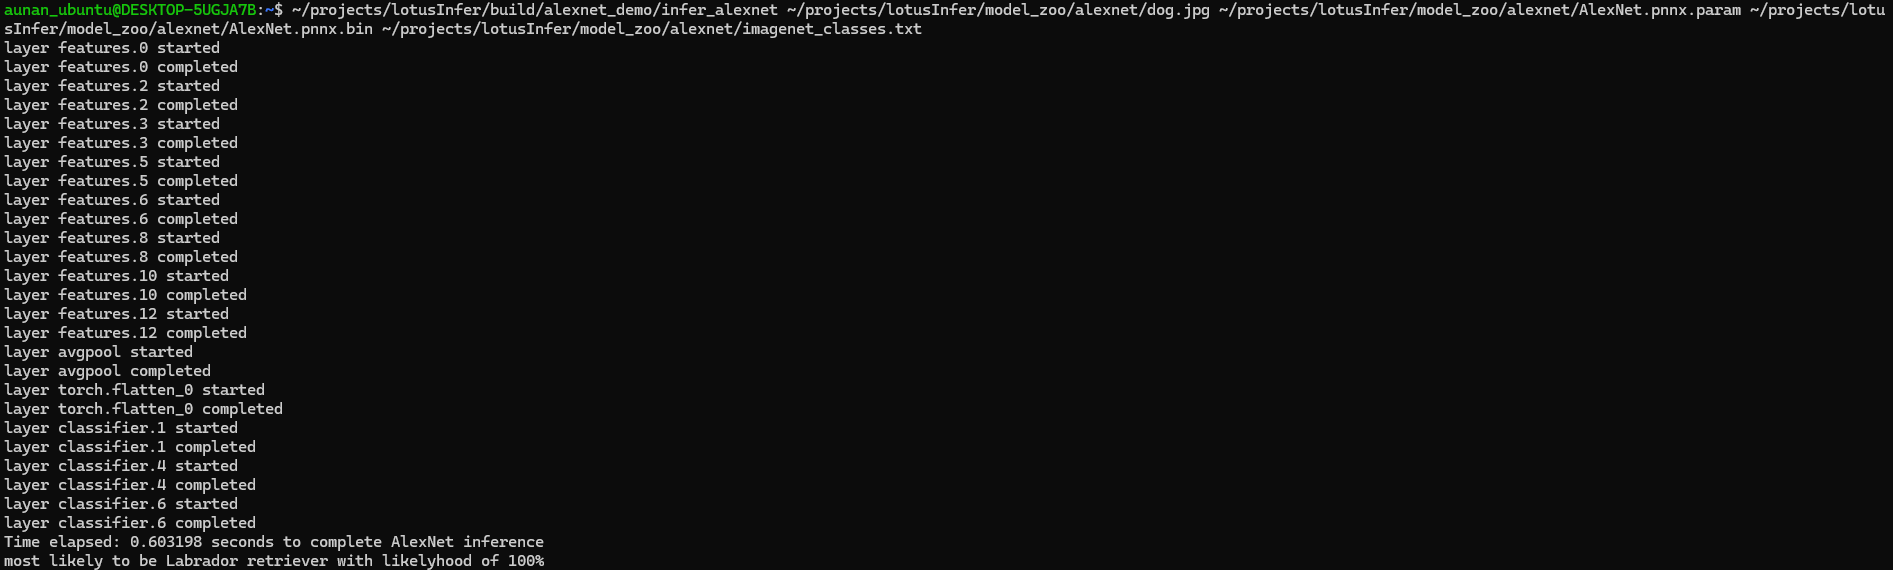
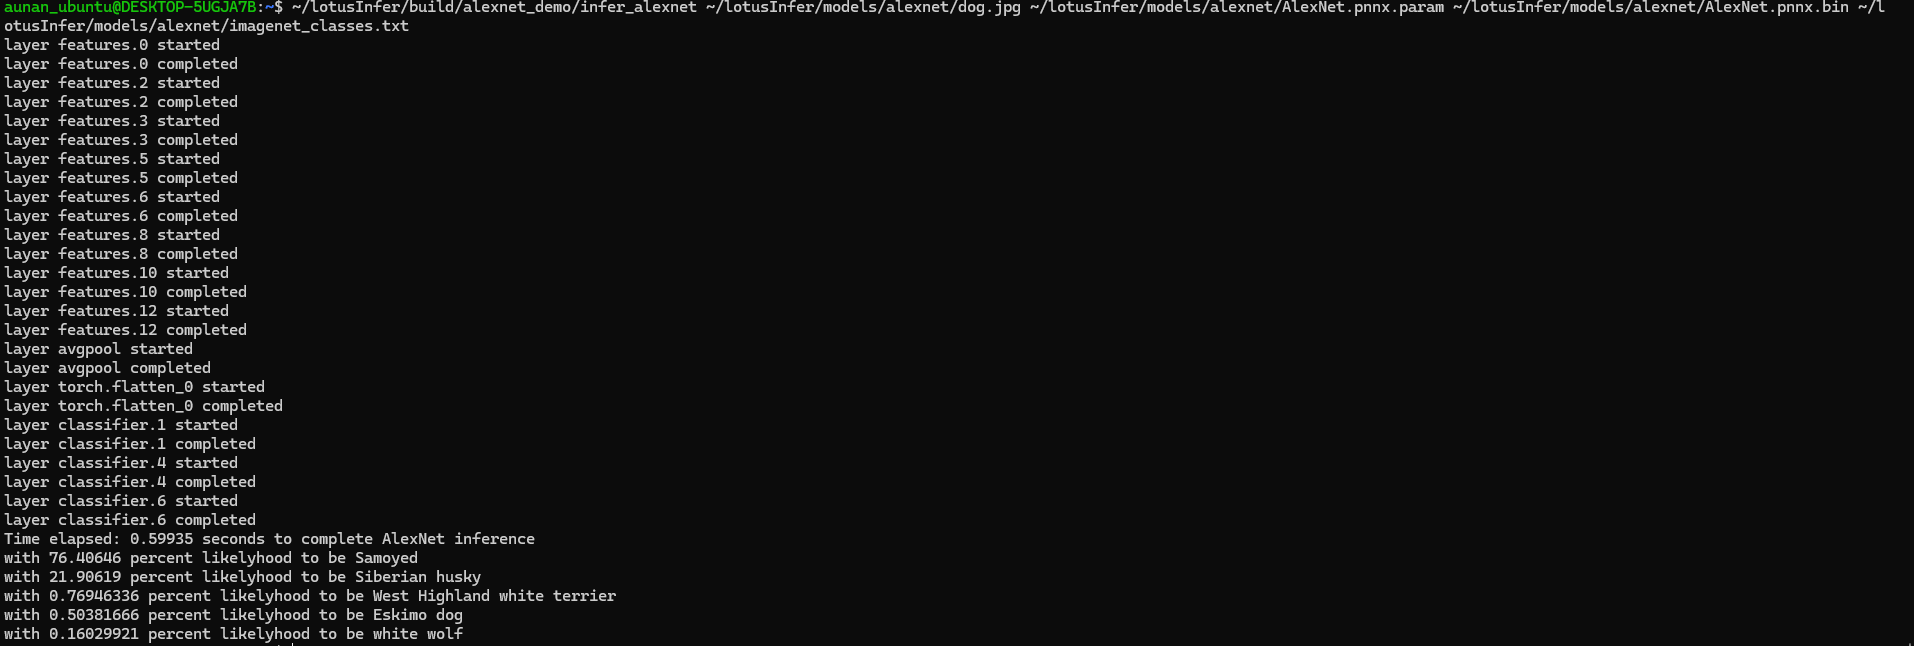
fix the missing of activation function

Changed region(s): [[0.0, 0.0, 0.9974, 1.0], [0.9974, 0.9842, 1.0, 1.0]]

diff --git a/alexnet_demo/infer_alexnet.cpp b/alexnet_demo/infer_alexnet.cpp
@@ -39,9 +39,9 @@ void PreprocessImage(cv::Mat &image, std::vector<float> &result) {
     cv::Mat channels[3];
     cv::split(image_crop, channels); 
 
-    channels[0] = (channels[0] - mean[0]) / stddev[0]; 
-    channels[1] = (channels[1] - mean[1]) / stddev[1]; 
-    channels[2] = (channels[2] - mean[2]) / stddev[2]; 
+    channels[0] = (channels[0]/255.f - mean[0]) / stddev[0]; 
+    channels[1] = (channels[1]/255.f - mean[1]) / stddev[1]; 
+    channels[2] = (channels[2]/255.f - mean[2]) / stddev[2]; 
 
     memcpy(&result[0], channels[0].data, sizeof(float)*(224*224));
     memcpy(&result[224*224], channels[1].data, sizeof(float)*(224*224));
@@ -102,8 +102,12 @@ int main(int argc, char* argv[]) {
 
     input_file.close();
 
-    auto index = xt::argmax(probabilities)();
-    std::cout << fmt::format("most likely to be {} with likelyhood of {}%\n", classes[index], probabilities(index)*100);
+    for(int i=0; i<5; ++i) {
+        auto index = xt::argmax(probabilities)();
+        std::cout << fmt::format("with {} percent likelyhood to be {}\n", probabilities(index)*100, classes[index]);
+        probabilities(index) = 0;
+    }
+    
 
     return 0;
 }

diff --git a/source/graph.cpp b/source/graph.cpp
@@ -47,11 +47,9 @@ namespace lotus {
 
         pnnx::Graph pnnx_graph;
 
-        // std::cout << "pnnx is to load the model" << std::endl;
-
         CHECK(pnnx_graph.load(param_path, bin_path) == 0) << "graph fails to load the model and coefficients";
 
-        // std::cout << "pnnx loaded the model" << std::endl;
+        std::vector<std::string> layer_need_relu_activation;
 
         for(pnnx::Operand *opd: pnnx_graph.operands) {
 
@@ -82,6 +80,7 @@ namespace lotus {
                     for(pnnx::Operator* _consumer : consumer->outputs[0]->consumers) {
                         operand->consumers_.emplace_back(_consumer->name);
                     }
+                    layer_need_relu_activation.emplace_back(opd->producer->name);
                 }
             }
 
@@ -115,6 +114,10 @@ namespace lotus {
             } else {
                 CHECK(false) << fmt::format("lotusInfer does not support layer {} up to now", opt->type);
             }
+        }
+
+        for(auto& layer: layer_need_relu_activation) {
+            layers_[layer]->SetActivation(ActivationFunction::RELU);
         }
 
         TopoSortLayers();

diff --git a/include/layer/layer.hpp b/include/layer/layer.hpp
@@ -13,6 +13,7 @@ namespace lotus {
         std::vector<std::string> outputs_name_;
         std::vector<std::shared_ptr<Operand>> inputs_;
         std::vector<std::shared_ptr<Operand>> outputs_;
+        ActivationFunction af_ = ActivationFunction::NONE;
 
         public: 
         Layer() = default;
@@ -22,6 +23,7 @@ namespace lotus {
         const std::vector<std::string>& InputsName() {return inputs_name_;};
         const std::vector<std::string>& OutputsName() {return outputs_name_;};
         virtual void Forward() {};
+        void SetActivation(ActivationFunction af) {af_ = af;};
         virtual ~Layer() = default;
     };
 }

diff --git a/include/layer/layer_conv2d.hpp b/include/layer/layer_conv2d.hpp
@@ -14,7 +14,6 @@ namespace lotus {
         uint32_t stride_w_;
         uint32_t padding_h_; 
         uint32_t padding_w_;
-        ActivationFunction af_;
 
         public:
         LayerConv2d(const std::string& name,
@@ -26,7 +25,6 @@ namespace lotus {
                     const uint32_t stride_h, const uint32_t stride_w,
                     const uint32_t padding_h, const uint32_t padding_w);
                                  
-        void SetActivation(ActivationFunction af);
         
         void Forward() override;
         ~LayerConv2d() override = default;

diff --git a/include/layer/linear.hpp b/include/layer/linear.hpp
@@ -10,7 +10,6 @@ namespace lotus {
         uint32_t out_features_;
         bool use_bias_;
         Tensor bias_;
-        ActivationFunction af_;
 
         public:
         LayerLinear(
@@ -21,7 +20,6 @@ namespace lotus {
                     const bool use_bias, const std::vector<char>& bias
                     );
                     
-        void SetActivation(ActivationFunction af);
 
         void Forward() override;
         ~LayerLinear() override = default;
